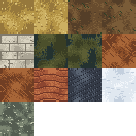
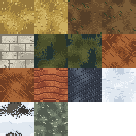
P1.1: mountains of varied size, one rock each, with snow-capped peaks
Morgan asked for bigger mountains with more variety in size and features,
and more consistent character within a mountain. Massifs (mountains.ts)
are raised on the rims and inside the valley from content dials; each
is one rock; rock above the snow line is snow-capped.

Claude-Session: https://claude.ai/code/session_01KCucycQHzGBpkKVESZwmxv

Changed region(s): [[0.0, 0.7353, 0.5, 1.0]]

diff --git a/src/engine/map/terrain.ts b/src/engine/map/terrain.ts
@@ -1,7 +1,8 @@
 // The surface generator's ground: a valley's climate, height, biomes, rock and fertility, all
 // from the `worldgen` stream and the dials in content (terrain.json `generator`, biomes.json).
 import type { EngineContent, RngStream } from '../core/index.ts';
-import { bake, fractalNoise, quantile } from './noise.ts';
+import { raiseMountains } from './mountains.ts';
+import { AXES, bake, fractalNoise, quantile } from './noise.ts';
 
 export interface Ground {
   climate: string;
@@ -12,29 +13,6 @@ export interface Ground {
   fertility: number[];
   tiles: number[];
 }
-
-// cos and sin of k * 22.5 degrees, k = 0 to 15.
-const C1 = 0.9238795325;
-const C2 = 0.7071067812;
-const C3 = 0.3826834324;
-const AXES: readonly (readonly [number, number])[] = [
-  [1, 0],
-  [C1, C3],
-  [C2, C2],
-  [C3, C1],
-  [0, 1],
-  [-C3, C1],
-  [-C2, C2],
-  [-C1, C3],
-  [-1, 0],
-  [-C1, -C3],
-  [-C2, -C2],
-  [-C3, -C1],
-  [0, -1],
-  [C3, -C1],
-  [C2, -C2],
-  [C1, -C3],
-];
 
 const clamp = (v: number, lo: number, hi: number): number => Math.min(hi, Math.max(lo, v));
 
@@ -56,7 +34,9 @@ const draw = (rng: RngStream, [min, max]: readonly number[]): number =>
  * map) are crags of rock on the floor. Temperature falls with height by `lapse` degrees a
  * kilometre; rainfall is the climate's, varied by a broad moisture field and raised on the
  * valley floor. The biome comes from the forked temperature-by-rainfall table. Ridged noise on
- * the slopes gives the walls spurs; the rock is two of `rocks`, drawn by weight, in strata.
+ * the slopes gives the walls spurs. Massifs (mountains.ts) of varied size stand on the rims and
+ * in the valley, each of one rock drawn by weight; the walls outside them share one rock; rock
+ * colder than `rock.snowline` is snow-capped.
  */
 export function layGround(
   rng: RngStream,
@@ -95,7 +75,6 @@ export function layGround(
   const { moisture, ridges } = gen;
   const wet = bake(fractalNoise(rng, width, height, moisture.cell, 3), width, height);
   const ridge = bake(fractalNoise(rng, width, height, ridges.cell, 3), width, height);
-  const strata = bake(fractalNoise(rng, width, height, gen.strataCell, 2), width, height);
   const soil = bake(fractalNoise(rng, width, height, cell / 2, 2), width, height);
   const crags = bake(fractalNoise(rng, width, height, gen.rock.outcropCell, 3), width, height);
 
@@ -112,24 +91,23 @@ export function layGround(
       const trough = clamp(off * off, 0, 1.5);
       // Ridged noise (high along its zero lines) on the slopes: spurs and saddles in the walls.
       const spur = (1 - Math.abs(2 * ridge[i]! - 1)) * clamp(trough, 0, 1);
-      elevation[i] = Math.round(
-        floor + relief * (0.6 * trough + 0.4 * rough[i]! + ridges.weight * spur),
-      );
+      elevation[i] = floor + relief * (0.6 * trough + 0.4 * rough[i]! + ridges.weight * spur);
     }
+  const ridgedField = ridge.map((r) => 1 - Math.abs(2 * r - 1));
+  const peaks = raiseMountains(rng, gen, width, height, [ax, ay], ridgedField);
+  for (let i = 0; i < width * height; i += 1)
+    elevation[i] = Math.round(elevation[i]! + peaks.lift[i]!);
 
   const wallFrom = quantile(elevation, 1 - gen.rock.wall);
   const screeFrom = quantile(elevation, 1 - gen.rock.wall - gen.rock.scree);
   const outcropFrom = quantile(crags, 1 - gen.rock.outcrops);
   const lowland = quantile(elevation, gen.swampLowland);
   const valleyFloor = quantile(elevation, gen.valleyFloor);
-  // Two rocks per valley, by weight, laid in broad strata.
-  const first = rng.weighted(gen.rocks.map((r) => [r, Math.round(r.weight * 10)] as const));
-  const others = gen.rocks.filter((r) => r !== first);
-  const second = others.length
-    ? rng.weighted(others.map((r) => [r, Math.round(r.weight * 10)] as const))
-    : first;
-  const rockA = kindIndex(first.kind);
-  const rockB = kindIndex(second.kind);
+  // The valley's walls are one rock; each massif is its own.
+  const wallRock = kindIndex(
+    rng.weighted(gen.rocks.map((r) => [r.kind, Math.round(r.weight * 10)] as const)),
+  );
+  const snowcap = kindIndex(gen.rock.snowcapKind);
   const scree = kindIndex(gen.rock.screeKind);
   const alpine = biomeIndex(gen.alpine);
   const swamp = biomeIndex(gen.swamp);
@@ -150,7 +128,8 @@ export function layGround(
     biomeOf[i] = b;
     // Rock: the heights, plus a scatter of crags standing out of the valley floor.
     if (e >= wallFrom || crags[i]! >= outcropFrom) {
-      tiles[i] = strata[i]! < 0.5 ? rockA : rockB;
+      const own = peaks.rock[i]!;
+      tiles[i] = t < gen.rock.snowline ? snowcap : own ? kindIndex(own) : wallRock;
       fertility[i] = 0;
       continue;
     }

diff --git a/src/engine/map/mountains.ts b/src/engine/map/mountains.ts
@@ -1,0 +1,100 @@
+// Mountains: a handful of massifs of different sizes, most on the valley's rims and a few standing
+// inside it, each of one rock. Dials in terrain.json `generator.mountains`.
+import type { RngStream, TerrainDef } from '../core/index.ts';
+import { AXES, bake, fractalNoise } from './noise.ts';
+
+interface Massif {
+  x: number;
+  y: number;
+  /** Radius squared, in tiles. */
+  r2: number;
+  /** Its long axis, and how many times longer than wide it is. */
+  ux: number;
+  uy: number;
+  s2: number;
+  height: number;
+  rock: string;
+}
+
+export interface Mountains {
+  /** Metres each tile is raised. */
+  lift: number[];
+  /** The rock kind id of the massif a tile belongs to, or '' outside every massif. */
+  rock: string[];
+  count: number;
+}
+
+/**
+ * Places `count` massifs: a `rimShare` of them across the axis at `rim` (a share of the half
+ * map) on either side, the rest within the valley, anywhere along it. Each is a dome of its
+ * drawn radius (its width) and height, stretched up to `stretch` times along one of 16 axes
+ * into a range, `(1 - q)²` with q its squared distance over radius squared (no square roots),
+ * bent by a warp field and roughened by the ridged field so its slopes have spurs; a tile belongs to the massif it is deepest inside.
+ */
+export function raiseMountains(
+  rng: RngStream,
+  gen: TerrainDef['generator'],
+  width: number,
+  height: number,
+  axis: readonly [number, number],
+  ridged: readonly number[],
+): Mountains {
+  const m = gen.mountains;
+  const [ax, ay] = axis;
+  const cx = (width - 1) / 2;
+  const cy = (height - 1) / 2;
+  const half = Math.min(width, height) / 2;
+  const count = rng.between(m.count[0]!, m.count[1]!);
+  const massifs: Massif[] = [];
+  for (let k = 0; k < count; k += 1) {
+    const along = rng.between(-100, 100) / 100;
+    const onRim = rng.chance(m.rimShare);
+    const side = rng.chance(0.5) ? 1 : -1;
+    const across = onRim
+      ? side * (rng.between(Math.round(m.rim[0]! * 100), Math.round(m.rim[1]! * 100)) / 100)
+      : rng.between(-m.inside * 100, m.inside * 100) / 100;
+    const radius = rng.between(m.radius[0]!, m.radius[1]!);
+    const [ux, uy] = rng.pick(AXES);
+    const stretch = rng.between(m.stretch[0]! * 10, m.stretch[1]! * 10) / 10;
+    massifs.push({
+      x: cx + (along * ax + across * ay) * half,
+      y: cy + (along * ay - across * ax) * half,
+      r2: radius * radius,
+      ux,
+      uy,
+      s2: stretch * stretch,
+      height: rng.between(m.height[0]!, m.height[1]!),
+      rock: rng.weighted(gen.rocks.map((r) => [r.kind, Math.round(r.weight * 10)] as const)),
+    });
+  }
+  // A warp field bends every outline, so no massif is a clean oval.
+  const warp = bake(fractalNoise(rng, width, height, m.warpCell, 2), width, height);
+  const lift = new Array<number>(width * height).fill(0);
+  const rock = new Array<string>(width * height).fill('');
+  for (let y = 0; y < height; y += 1)
+    for (let x = 0; x < width; x += 1) {
+      const i = y * width + x;
+      let deepest = 1;
+      for (const massif of massifs) {
+        const dx = x - massif.x;
+        const dy = y - massif.y;
+        const along = dx * massif.ux + dy * massif.uy;
+        const across = dx * massif.uy - dy * massif.ux;
+        const q =
+          ((along * along) / massif.s2 + across * across) /
+          massif.r2 /
+          (1 - m.warp / 2 + m.warp * warp[i]!);
+        if (q >= 1) continue;
+        const dome = (1 - q) * (1 - q);
+        lift[i] = Math.max(
+          lift[i]!,
+          massif.height * dome * (m.rough[0]! + m.rough[1]! * ridged[i]!),
+        );
+        if (q < deepest) {
+          deepest = q;
+          rock[i] = massif.rock;
+        }
+      }
+    }
+  return { lift, rock, count };
+}

diff --git a/src/content/schemas-world.ts b/src/content/schemas-world.ts
@@ -197,9 +197,22 @@ export const WORLD_SCHEMAS = {
       moisture: obj({ cell: num({ min: 2 }), low: count, span: count }),
       ridges: obj({ cell: num({ min: 2 }), weight: count }),
       rocks: list(obj({ kind: ref('terrain'), weight: count })),
-      strataCell: num({ min: 2 }),
+      mountains: obj({
+        count: range(),
+        radius: range(),
+        height: range(),
+        rimShare: share,
+        rim: range(),
+        inside: share,
+        rough: range(),
+        stretch: range(),
+        warp: count,
+        warpCell: num({ min: 2 }),
+      }),
       rock: obj({
         screeKind: ref('terrain'),
+        snowcapKind: ref('terrain'),
+        snowline: num(),
         wall: share,
         scree: share,
         outcrops: share,

diff --git a/src/engine/map/noise.ts b/src/engine/map/noise.ts
@@ -5,6 +5,29 @@ import type { RngStream } from '../core/index.ts';
 /** A field of values in [0, 1] over a width by height map. */
 export type Field = (x: number, y: number) => number;
 
+// cos and sin of k * 22.5 degrees, k = 0 to 15.
+const C1 = 0.9238795325;
+const C2 = 0.7071067812;
+const C3 = 0.3826834324;
+export const AXES: readonly (readonly [number, number])[] = [
+  [1, 0],
+  [C1, C3],
+  [C2, C2],
+  [C3, C1],
+  [0, 1],
+  [-C3, C1],
+  [-C2, C2],
+  [-C1, C3],
+  [-1, 0],
+  [-C1, -C3],
+  [-C2, -C2],
+  [-C3, -C1],
+  [0, -1],
+  [C3, -C1],
+  [C2, -C2],
+  [C1, -C3],
+];
+
 const smooth = (t: number): number => t * t * (3 - 2 * t);
 
 /** One octave: random values on a grid of `cell` tiles, blended smoothly between grid points. */

diff --git a/src/engine/core/types.ts b/src/engine/core/types.ts
@@ -114,9 +114,22 @@ export interface TerrainDef {
     moisture: { cell: number; low: number; span: number };
     ridges: { cell: number; weight: number };
     rocks: readonly { kind: string; weight: number }[];
-    strataCell: number;
+    mountains: {
+      count: Range;
+      radius: Range;
+      height: Range;
+      rimShare: number;
+      rim: Range;
+      inside: number;
+      rough: Range;
+      stretch: Range;
+      warp: number;
+      warpCell: number;
+    };
     rock: {
       screeKind: string;
+      snowcapKind: string;
+      snowline: number;
       wall: number;
       scree: number;
       outcrops: number;

diff --git a/src/engine/map/MODULE.md b/src/engine/map/MODULE.md
@@ -3,7 +3,7 @@
 The valley's ground: every surface tile and what it is made of.
 
 - **Public API:** `index.ts`: `mapSystem` (generates the surface in `init` when a world begins from a seed, never on load, from the `worldgen` stream), `setTile(ctx, x, y, kind, cause)` (the only writer of a tile afterwards: it records `cause`, the event the caller emitted to explain the change, and raises the chunk's version), `CHUNK` (16), `chunksAcross(map)`, `chunksDown(map)`, `chunkTiles(map, cx, cy)` (one chunk's ground and features as `Uint8Array`s, for the worker's snapshots).
-- **Generator:** `terrain.ts` lays the ground (climate drawn by weight, a trough along one of 16 written-out axes roughened by value noise, rock, scree and crags by percentile, biome from the forked temperature-by-rainfall table, fertility); `features.ts` places trees in groves, bushes, herbs and boulders from `features.json` and picks the start tile (nearest the middle with the start floors within `start.radius`, a square); `noise.ts` is value noise on an integer lattice from the stream, smoothstep only, no transcendental math or square roots (V-006). Every dial, and every kind, biome and item id the generator names, is in `terrain.json` `generator`; features that clump into groves say so with `clumps`. The surface takes its draws from `worldgen` only in `init`; P1.3's lazy levels need their own per-level streams, so reaching levels in a different order cannot change them. `npm run map:stats` and `map:render` run it over `seeds.ts`.
+- **Generator:** `terrain.ts` lays the ground (climate drawn by weight, a trough along one of 16 written-out axes roughened by value noise, spurs from ridged noise, rock, scree and crags by percentile, the valley walls of one rock drawn by weight, rock colder than `rock.snowline` snow-capped, biome from the forked temperature-by-rainfall table, fertility); `mountains.ts` raises 3 to 7 massifs of drawn radius, height and stretch along one of 16 axes, on the rims or inside the valley, each of one rock, bent by a warp field (`generator.mountains`); `features.ts` places trees in groves and old-growth stands, fallen logs, bushes and herbs in glades,, herbs and boulders from `features.json` and picks the start tile (nearest the middle with the start floors within `start.radius`, a square); `noise.ts` is value noise on an integer lattice from the stream, smoothstep only, no transcendental math or square roots (V-006). Every dial, and every kind, biome and item id the generator names, is in `terrain.json` `generator`; features that clump into groves say so with `clumps`. The surface takes its draws from `worldgen` only in `init`; P1.3's lazy levels need their own per-level streams, so reaching levels in a different order cannot change them. `npm run map:stats` and `map:render` run it over `seeds.ts`.
 - **Events:** emits `map.formed` (cites `world.begun`) once, at world creation, with the climate and main biome; reads none. Layers are written whole under that one line, never per tile.
 - **State owned:** `world.map`: `width`, `height`, `tiles` (index into `content.terrain.kinds`, row by row), `tileCauses` (the id of the ledger line that last changed each tile, `map.formed` at first; the inspector's "last changed") and `chunkVersions` (one counter per chunk, raised when a tile in it changes, so the worker sends only changed chunks); the generator's layers as typed arrays (`elevation` Int16 metres, `biomes`, `fertility` 0 to 100, `features` 0 or 1 + index, all Uint8), `startX`, `startY`, `climate`, `temperature`, `rainfall`. Features have no writer yet; the first milestone that fells a tree adds one beside `setTile`, raising the chunk's version.
 - **Invariants:** size and starting ground come from `content.terrain.surface`; every tile names an existing kind (`setTile` checks; content allows at most 256 kinds, as tiles travel as bytes). Tiles are kind indices, so a save is only valid with the content it was made with (P0.5 `load` refuses a different `contentHash`). The surface is generated in `init`; later generation (V-014's underground levels, made when first reached) will go through one generator entry point that `init` also calls and that emits a line citing its trigger. One surface level for now: Phase 1 adds a level (`z`) to `MapState`, `setTile`, `ChunkView` and `inspect` together, before anything is built underground. Which picture a tile shows is the renderer's choice, never state.

diff --git a/CHANGELOG.md b/CHANGELOG.md
@@ -8,4 +8,4 @@ One dated line per merged milestone.
 - 2026-10-17 · P0.4 · Worker loop, map and art pipeline: the simulation runs in a Web Worker at pause, 1×, 2× and 3× (10, 30, 100 game minutes a second) on a real-time clock with a 250 ms catch-up cap; a flat 150 by 150 grass map owned by the engine's new map system (`terrain.json`) and drawn from 16 by 16 chunks pulled once per frame; drag, wheel, pinch and key camera on fixed zoom steps; HUD with clock, speeds, tile readout and error screen; `art/palette.gpl`, `tools/draw-tiles-base.mjs`, `tools/pack-sheet.mjs` and the `tiles-base` sheet.
 - 2026-10-17 · P0.5 · Saves, export and debug inspector: the worker builds and checks saves (format version, content hash, shape) before one replaces the running world; IndexedDB store `ledger` v1 with generated ids, names, thumbnails and a 60 s real-time autosave slot (also on tab hide); NDJSON ledger download; a side panel (bottom sheet on phones) with the tile inspector, the ledger's newest 200 lines and "why?" chains from the engine's new `whyOf`; the map records the line that last changed each tile; New game from a seed in the save panel.
 - 2026-10-17 · Phase 0 review · The map draws with Phaser's plain tilemap layer (the GPU layer drew grass as brown stripes on phones); a lowest zoom step fits the whole map, centred; "why?" only on lines that explain more than the world's beginning; the first month and season get their ledger lines; `emit` refuses causes that are not earlier lines; the calendar is validated; a fresh or just-loaded world never replaces the autosave; speed keys wait while a world loads; the purity check catches `**=` and locale methods; continue-after-load is tested against an unbroken run.
-- 2026-10-17 · P1.1 · Surface terrain: the valley is generated from the `worldgen` stream: a climate drawn by weight (temperate, pine valley, steppe), a trough-shaped valley in value noise with rock walls, scree and crags, biomes from the forked biome table, fertility, and trees, bushes, herbs and boulders from the new `features.json`; a start tile with 400 buildable tiles, 40 trees and 20 stone within 30 on every seed (`map.test.ts`); `npm run map:stats` and `map:render`; the inspector shows biome, height, fertility and what grows on a tile; `tiles-world` and `sprites-nature` sheets drawn by `tools/draw-nature.mjs` on a second plain tilemap layer; the repo's Phase 1 spec.
+- 2026-10-17 · P1.1 · Surface terrain: the valley is generated from the `worldgen` stream: a climate drawn by weight (temperate, pine valley, steppe), a trough-shaped valley in value noise with spurred walls, 3 to 7 mountains of varied size each of one rock (granite, slate, limestone, sandstone) with snow-capped peaks, scree and crags, biomes from the forked biome table, fertility, and trees, bushes, herbs and boulders from the new `features.json`; a start tile with 400 buildable tiles, 40 trees and 20 stone within 30 on every seed (`map.test.ts`); `npm run map:stats` and `map:render`; the inspector shows biome, height, fertility and what grows on a tile; `tiles-world` and `sprites-nature` sheets drawn by `tools/draw-nature.mjs` on a second plain tilemap layer; the repo's Phase 1 spec.
